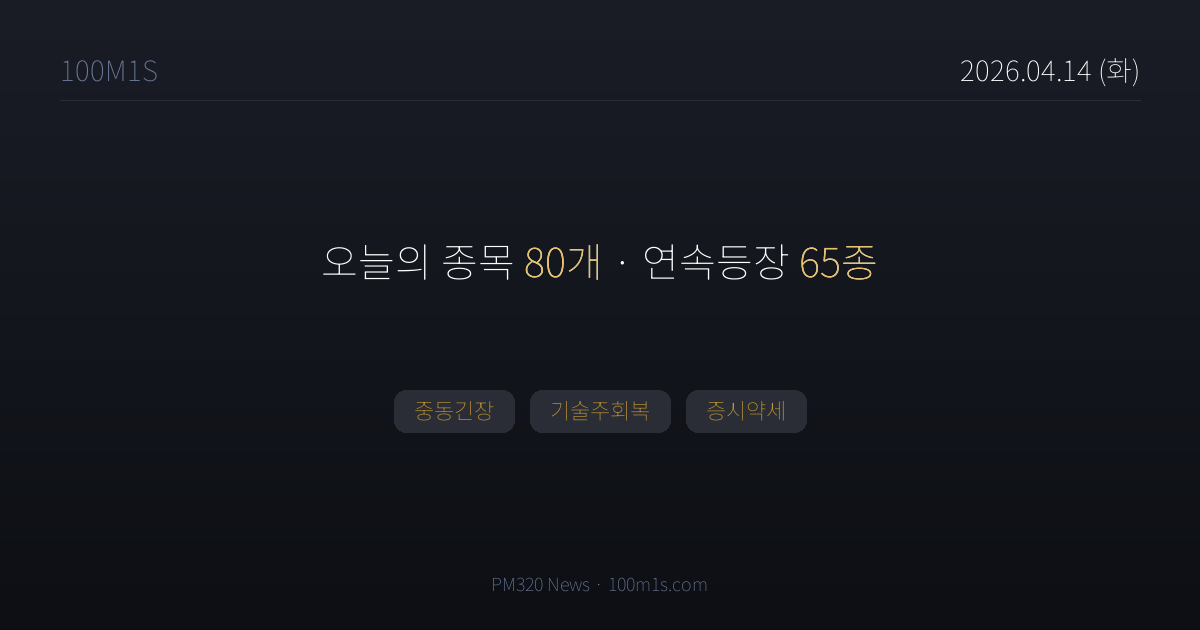
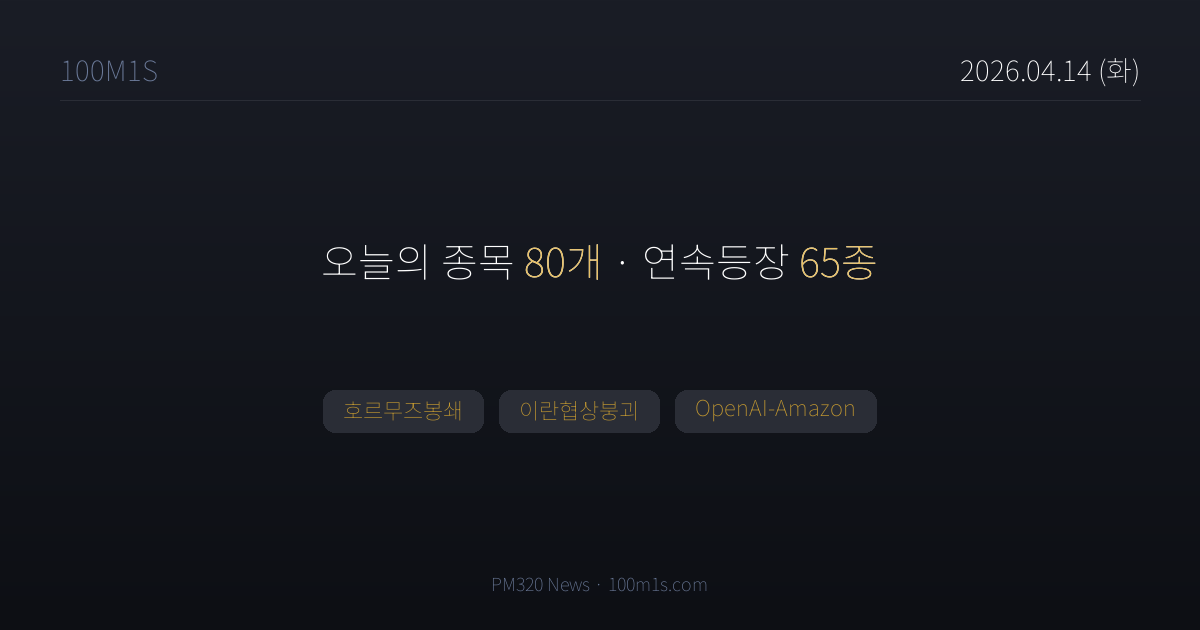
chore(news): 2026-04-14T04:48 pipeline

Changed region(s): [[0.2467, 0.6032, 0.74, 0.6937]]

diff --git a/news/2026-04-14.html b/news/2026-04-14.html
@@ -4,7 +4,7 @@
 <meta charset="UTF-8">
 <title>4월 14일 (화) 뉴스 — 100M1S</title>
 <meta property="og:title" content="4월 14일 (화) · 종목 80개">
-<meta property="og:description" content="중동긴장, 기술주회복, 증시약세">
+<meta property="og:description" content="호르무즈봉쇄, 이란협상붕괴, OpenAI-Amazon">
 <meta property="og:image" content="https://100m1s.com/og/2026-04-14.png">
 <meta property="og:image:width" content="1200">
 <meta property="og:image:height" content="630">
